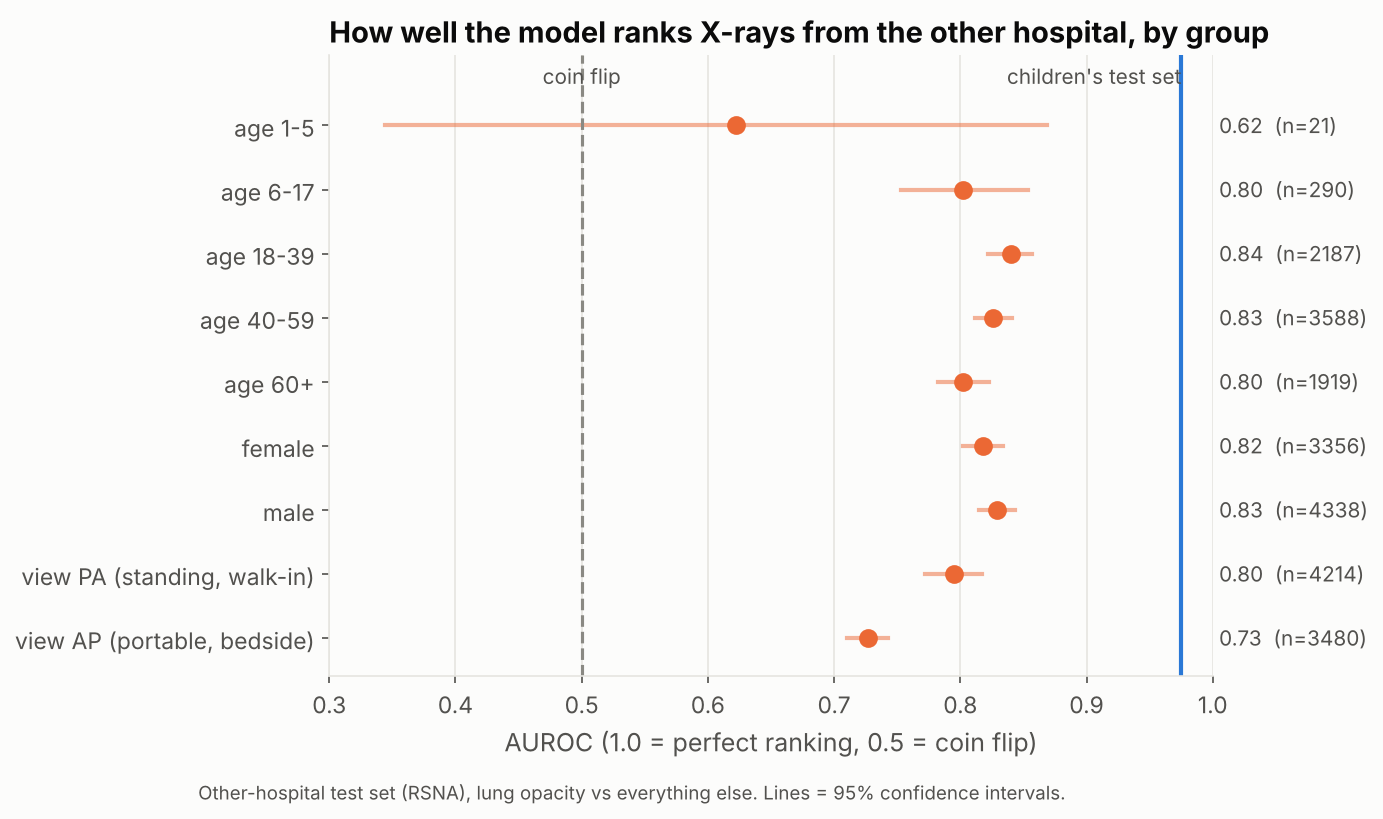
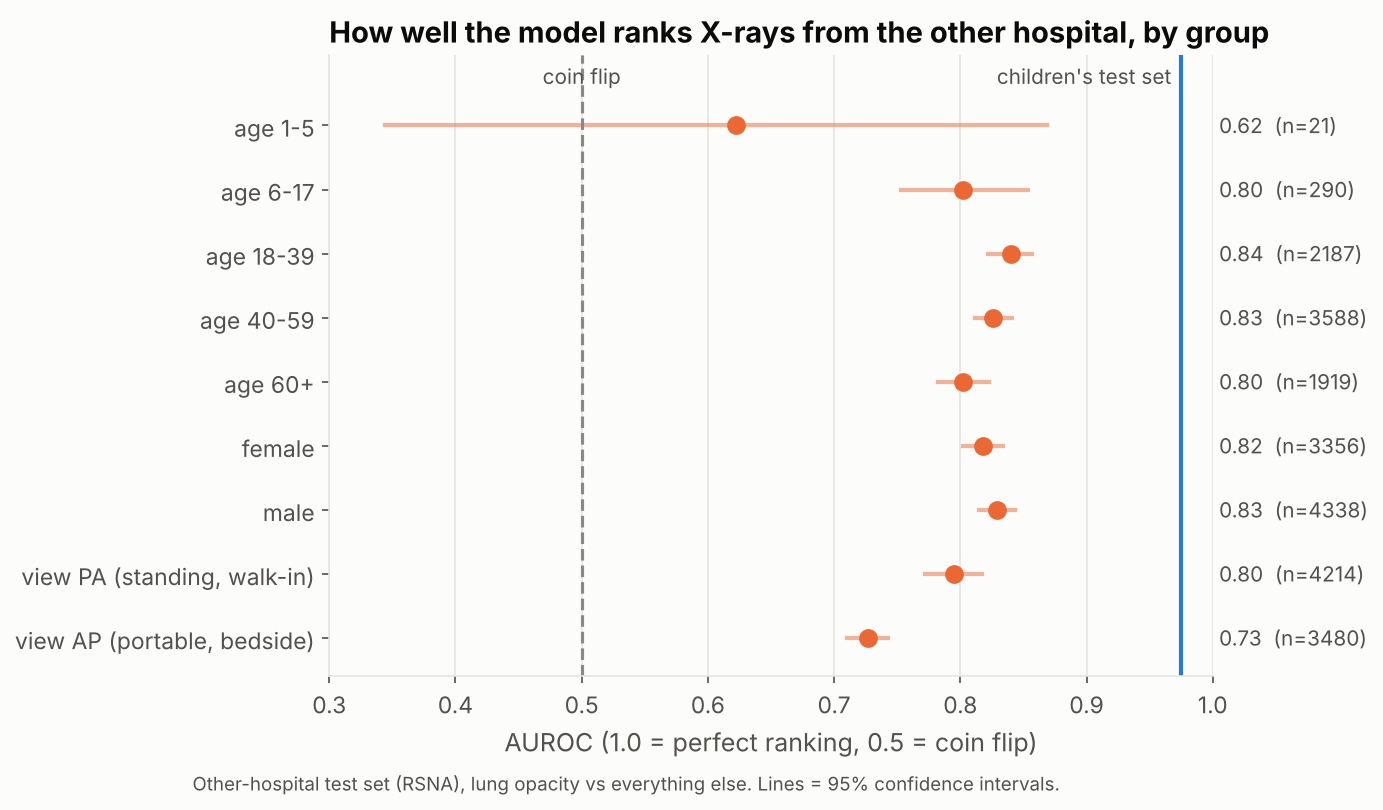
Figures: footnotes no longer overlap labels and legends; redrawn from the stored numbers
No result changed: scripts/05_shift_analysis.py --replot redraws from
results/shift_<model>.json and the stored warning statistics.

Claude-Session: https://claude.ai/code/session_01XqNhSz6bhwGo5vuZbLakGS

diff --git a/scripts/05_shift_analysis.py b/scripts/05_shift_analysis.py
@@ -117,7 +117,7 @@ def make_figures(name, cfg, mk, pk, mr, pr, res, ood_scores, fig_dir):
     ax.legend(loc="upper center", bbox_to_anchor=(0.45, -0.12), ncol=1)
     ax.set_title(res["titles"]["headline"])
     plotting.finish(fig, fig_dir / f"shift_{name}_headline.png",
-                    note=f"Model '{name}'. Threshold {thr:.2f} fixed on validation data. Held-out test images only.")
+                    note=f"Model '{name}'. Threshold {thr:.3f} fixed on validation data. Held-out test images only.")
 
     # 2. what the model says: distribution of predicted probabilities
     fig, axes = plt.subplots(1, 2, figsize=(9.4, 3.5), sharey=False)
@@ -129,8 +129,8 @@ def make_figures(name, cfg, mk, pk, mr, pr, res, ood_scores, fig_dir):
         ax.axvline(thr, color=plotting.NEUTRAL, linestyle="--", linewidth=1.5)
         ax.text(thr, ax.get_ylim()[1] * 0.97, " flagged ->" if thr < 0.6 else "flagged -> ", color=plotting.TEXT_2,
                 ha="left" if thr < 0.6 else "right", va="top", fontsize=10)
-        ax.set_title(title, fontsize=12); ax.set_xlabel("Model's pneumonia probability"); ax.set_yticks([])
-        ax.legend(loc="upper center")
+        ax.set_title(title, fontsize=12); ax.set_xlabel("Model's pneumonia score"); ax.set_yticks([])
+        ax.legend(loc="upper center", bbox_to_anchor=(0.5, -0.22), ncol=2)     # below the axes: nothing to overlap
     fig.suptitle(res["titles"]["scores"], x=0.01, ha="left", fontweight="bold", fontsize=14, y=1.03)
     plotting.finish(fig, fig_dir / f"shift_{name}_scores.png", note="Filled = truly no pneumonia, outline = truly pneumonia. Dashed line = decision threshold.")
 
@@ -147,7 +147,7 @@ def make_figures(name, cfg, mk, pk, mr, pr, res, ood_scores, fig_dir):
     ax.axvline(0.5, color=plotting.NEUTRAL, linestyle="--", linewidth=1.5)
     ax.axvline(kid["auroc"], color=plotting.CHILDREN, linewidth=2)
     ax.text(0.5, len(names) - 0.35, "coin flip", ha="center", fontsize=10, color=plotting.TEXT_2)
-    ax.text(kid["auroc"], len(names) - 0.35, "children's test set", ha="right", fontsize=10, color=plotting.TEXT_2)
+    ax.text(kid["auroc"] - 0.008, len(names) - 0.35, "children's test set", ha="right", fontsize=10, color=plotting.TEXT_2)
     ax.set_yticks(range(len(names)), names); ax.set_xlim(0.3, 1.0); ax.set_ylim(-0.6, len(names) + 0.1)
     ax.set_xlabel("AUROC (1.0 = perfect ranking, 0.5 = coin flip)"); ax.grid(axis="y", visible=False)
     ax.set_title(res["titles"]["subgroups"])
@@ -165,9 +165,9 @@ def make_figures(name, cfg, mk, pk, mr, pr, res, ood_scores, fig_dir):
     ax.axvline(t95, color=plotting.NEUTRAL, linestyle="--", linewidth=1.5)
     ax.text(t95, ax.get_ylim()[1] * 0.97, " warning ->", va="top", fontsize=10, color=plotting.TEXT_2)
     ax.set_xlabel("How unfamiliar the X-ray looks to the model (distance to training data)"); ax.set_yticks([])
-    ax.legend(loc="upper right"); ax.set_title(res["titles"]["ood"])
+    ax.legend(loc="upper center", bbox_to_anchor=(0.5, -0.2), ncol=2); ax.set_title(res["titles"]["ood"])
     plotting.finish(fig, fig_dir / f"shift_{name}_ood.png",
-                    note="Warning threshold = 95th percentile of validation images from the training hospital.")
+                    note="Warning threshold: 95% of validation X-rays of the kind the model was trained on stay below it.")
 
     # 5. learning curve
     import pandas as pd
@@ -182,10 +182,14 @@ def make_figures(name, cfg, mk, pk, mr, pr, res, ood_scores, fig_dir):
     ax.plot(x, agg.c, "-o", color=plotting.CHILDREN, label="tested on children 1-5")
     ax.axhline(0.5, color=plotting.NEUTRAL, linestyle="--", linewidth=1.5)
     ax.text(x[-1], 0.505, "coin flip", ha="right", va="bottom", fontsize=10, color=plotting.TEXT_2)
-    ax.set_xscale("log"); ax.set_xticks(x, ["0"] + [f"{n:,}" for n in agg.n_adults[1:]], rotation=0, fontsize=10)
+    labels = ["0"] + [f"{n:,}" for n in agg.n_adults[1:]]
+    for i in range(len(x) - 1):                              # 10,000 and 15,142 sit too close on a log axis
+        if x[i + 1] / x[i] < 1.8:
+            labels[i] = ""
+    ax.set_xscale("log"); ax.set_xticks(x, labels, rotation=0, fontsize=10)
     ax.minorticks_off()
     ax.set_xlabel("Labelled adult X-rays added to training"); ax.set_ylabel("AUROC"); ax.set_ylim(0.45, 1.01)
-    ax.legend(loc="lower right"); ax.set_title(res["titles"]["learning_curve"])
+    ax.legend(loc="center right", bbox_to_anchor=(1.0, 0.33)); ax.set_title(res["titles"]["learning_curve"])
     plotting.finish(fig, fig_dir / f"shift_{name}_learning_curve.png",
                     note="Network frozen, only the last layer retrained. Shaded band = range over 5 random draws of adult X-rays.")
 
@@ -194,6 +198,8 @@ if __name__ == "__main__":
     ap = argparse.ArgumentParser()
     ap.add_argument("--model", default="kids_only")
     ap.add_argument("--no-learning-curve", action="store_true")
+    ap.add_argument("--replot", action="store_true",
+                    help="only redraw the figures from results/shift_<model>.json and the stored ood.npz; no number is recomputed")
     args = ap.parse_args()
 
     model_dir = C.ARTIFACTS_DIR / args.model
@@ -208,6 +214,11 @@ if __name__ == "__main__":
     kte = (mk.split == "test").values
     ate = ((mr.split == "test") & mr.is_adult).values
     ava = ((mr.split == "val") & mr.is_adult).values
+    if args.replot:
+        res = json.loads((C.RESULTS_DIR / f"shift_{args.model}.json").read_text())
+        ood = MahalanobisOOD.load(model_dir / "ood.npz")
+        make_figures(args.model, cfg, mk, pk, mr, pr, res, dict(children_test=ood.score(ek[kte]), adults_test=ood.score(er[ate])), C.FIGURES_DIR)
+        sys.exit(f"figures of {args.model} redrawn, no number changed")
     res = dict(model=args.model, train_data=cfg.get("train_data"), threshold=thr, temperature=T)
 
     # 1. headline

diff --git a/src/pneumoshift/plotting.py b/src/pneumoshift/plotting.py
@@ -29,8 +29,13 @@ def use_style() -> None:
 
 
 def finish(fig, path, note: str | None = None) -> None:
-    """Save and close. `note` is a small grey footnote (data source, sample size)."""
+    """Save and close. `note` is a small grey footnote (data source, sample size).
+
+    The note is placed below the lowest thing in the figure (axis label, legend), so it never overlaps."""
     if note:
-        fig.text(0.01, -0.02, note, ha="left", va="top", fontsize=9, color=TEXT_2)
+        fig.canvas.draw()
+        box = fig.get_tightbbox(fig.canvas.get_renderer())            # in inches
+        y = (box.y0 - 0.10) / fig.get_figheight()
+        fig.text(max(box.x0 / fig.get_figwidth(), 0.0) + 0.005, y, note, ha="left", va="top", fontsize=9, color=TEXT_2)
     fig.savefig(path)
     plt.close(fig)

diff --git a/scripts/06_heatmap_check.py b/scripts/06_heatmap_check.py
@@ -121,7 +121,7 @@ if __name__ == "__main__":
     ax.set_yticks(yy, [r[0] for r in rows]); ax.set_xlim(0, 1); ax.grid(axis="y", visible=False)
     ax.xaxis.set_major_formatter(lambda v, _: f"{v:.0%}")
     ax.set_xlabel("Hottest point of the heatmap lies inside a radiologist's box")
-    ax.set_title("Does the model look where the radiologists marked pneumonia?")
+    ax.set_title("Does the model look where the radiologists marked lung opacity?")
     plotting.finish(fig, C.FIGURES_DIR / "heatmap_pointing_test.png",
                     note=f"{pt['n_images']} adult test X-rays with lung opacity (RSNA). Grey = no-skill reference points.")
 
